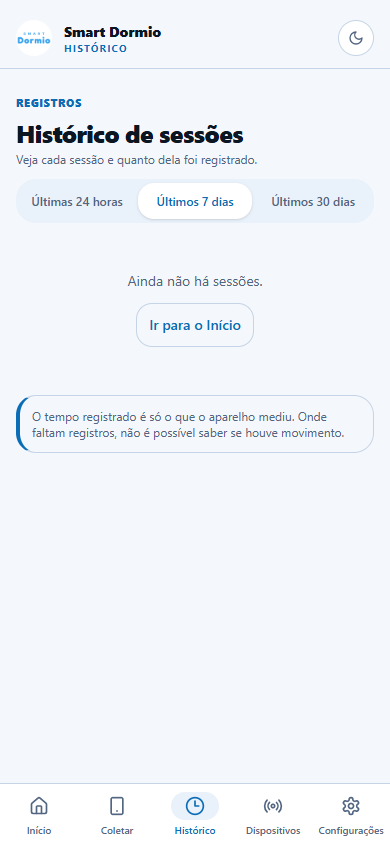
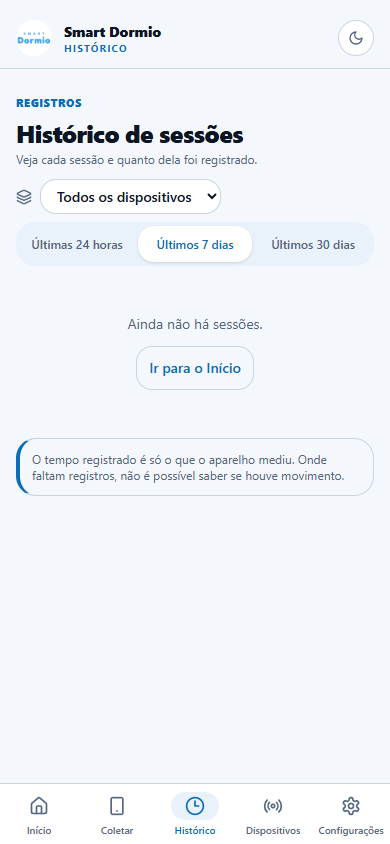
test: validar o onboarding com o filtro do historico (UI-57)

diff --git a/frontend/src/pages/Historico.test.tsx b/frontend/src/pages/Historico.test.tsx
@@ -18,7 +18,9 @@ import { Historico } from "./Historico";
 import { useDispositivos } from "../hooks/useDispositivos";
 import type { Dispositivo } from "../lib/dispositivos";
 
-vi.mock("../hooks/useDispositivos", () => ({ useDispositivos: vi.fn(() => []) }));
+vi.mock("../hooks/useDispositivos", () => ({
+  useDispositivos: vi.fn(() => ({ dispositivos: [], estado: "pronto" })),
+}));
 
 vi.mock("../lib/api", async (original) => ({
   ...await original<typeof import("../lib/api")>(),
@@ -511,11 +513,11 @@ describe("o aparelho de cada sessão (UI-55)", () => {
 
   beforeEach(() => {
     window.localStorage.clear();
-    vi.mocked(useDispositivos).mockReturnValue(aparelhos);
+    vi.mocked(useDispositivos).mockReturnValue({ dispositivos: aparelhos, estado: "pronto" });
     buscar.mockResolvedValue({ leituras: [...NOITE, ...sessao("celular", 300, 12)], truncada: false });
   });
 
-  afterEach(() => vi.mocked(useDispositivos).mockReturnValue([]));
+  afterEach(() => vi.mocked(useDispositivos).mockReturnValue({ dispositivos: [], estado: "pronto" }));
 
   it("com dois aparelhos, cada linha diz de qual veio", async () => {
     mostrar();
@@ -547,7 +549,7 @@ describe("o aparelho de cada sessão (UI-55)", () => {
   });
 
   it("com um aparelho só, não há seletor nem nome", async () => {
-    vi.mocked(useDispositivos).mockReturnValue([aparelhos[0]]);
+    vi.mocked(useDispositivos).mockReturnValue({ dispositivos: [aparelhos[0]], estado: "pronto" });
     buscar.mockResolvedValue({ leituras: NOITE, truncada: false });
     mostrar();
     const tabela = await screen.findByRole("region", { name: "Tabela do histórico" });
@@ -568,11 +570,11 @@ describe("o mesmo período com dois aparelhos (UI-56)", () => {
 
   beforeEach(() => {
     window.localStorage.clear();
-    vi.mocked(useDispositivos).mockReturnValue(aparelhos);
+    vi.mocked(useDispositivos).mockReturnValue({ dispositivos: aparelhos, estado: "pronto" });
     buscar.mockResolvedValue({ leituras: [...NOITE, ...CELULAR], truncada: false });
   });
 
-  afterEach(() => vi.mocked(useDispositivos).mockReturnValue([]));
+  afterEach(() => vi.mocked(useDispositivos).mockReturnValue({ dispositivos: [], estado: "pronto" }));
 
   it("no computador, uma data com 2 aparelhos e uma linha por aparelho, o travesseiro primeiro", async () => {
     mostrar();

diff --git a/CLAUDE.md b/CLAUDE.md
@@ -243,7 +243,7 @@ custo para rodar:
 | Onde | Como rodar | Resultado em 28/10 |
 |---|---|---|
 | Backend (Flask) | `cd web-app && pytest --ignore=tests/rls` | **751 passam, 1 pula** ✏ *(25/11, `APP-22`, base `395f84c`, Windows 11, Python 3.13.5; 13 testes novos)*; antes **730 passam, 1 pula** ✏ *(23/11, `APP-19`: +15 do `test_versao_do_app.py`; Windows 11, Python 3.13)*; antes **715 passam, 1 pula** ✏ *(23/11, `CAL-03` etapa 3: +15 do `test_analisar_cal03.py` e +5 do `test_features_noite.py`; 15 de 15 sabotagens pegas; Windows 11, Python 3.13)*; antes **695 passam, 1 pula** ✏ *(23/11, `VIA-02`: +16 do `test_analisar_via02.py`; 8 de 8 sabotagens pegas; Windows 11, Python 3.13)*; antes **679 passam, 1 pula** ✏ *(22/11, `DATA-17`, código `a6fc480`, sobre `develop` `2b8fbd5`, Windows 11, Python 3.13)*; antes **665 passam, 1 pula** ✏ *(21/11, `DATA-16`: +31 do `test_trecho.py`, excluir e marcar uma sessão; Windows, Python 3.13)*; antes **634 passam, 1 pula** ✏ *(17/11, `UI-14`: +41 do `test_lista_de_espera.py` e +3 do `test_politica_cobre_as_colunas.py`, a lista de espera; Windows, Python 3.13 sem `CI=true`)*; antes **590 passam, 1 pula** ✏ *(16/11, `VIA-01`: +16 do `test_analisar_via01.py`, a análise da bancada com dados sintéticos; Windows, Python 3.13 sem `CI=true`)*; antes **575 passam** ✏ *(15/11, `CI-02`: +2 do verificador de documentos, contêiner Python 3.12 com `CI=true`)*; antes **572 passam, 1 pula** ✏ *(15/11, `UI-32`: extração e orçamento da landing, incluindo referências SVG na revisão da PR #194; Windows, Python 3.13)*; antes **569 passam, 1 pula** ✏ *(15/11, revisão do `UI-15`: seis casos do orçamento de bundle; Windows, Python 3.13 sem `CI=true`)*; antes **551 passam** ✏ *(13/11, `CI-10`: +2 do `test_versao_do_python.py`; em contêiner `python:3.12` com `CI=true` — fora do CI, um deles pula)*; antes **549 passam** ✏ *(12/11, DATA-15 e API-08, Windows, sem RLS)*; antes **544 passam** ✏ *(11/11, `CAL-03` etapa 1: +18 do `test_calibracao_na_ingestao.py` — `gn` e `cal` do contrato 2.9.0)*; antes **526 passam** ✏ *(11/11, `INFRA-05`: +1 do `test_regiao_do_backend.py` — as funções na região do banco)*; antes **525 passam** ✏ *(10/11, `LGPD-12`: +16 do `test_consentimento.py` — a rota do consentimento, as travas 403 e as três versões iguais)*; antes **509 passam** ✏ *(10/11, `LGPD-11`: +5 do `test_politica_cobre_as_colunas.py` — toda coluna gravada tem de estar na §2.2 da política)*; antes **504 passam** ✏ *(10/11, `APP-10`: +4 do `test_lote.py` — um cliente por requisição no caminho por sessão; Windows, Python 3.13)*; antes **500 passam** ✏ *(09/11, `APP-02` etapa 3: +7 do `test_noite_do_app.py`, uma noite do emulador da ingestão ao modelo)*; antes **493 passam** ✏ *(08/11, `ML-INF`: +40 do `test_inferencia.py`; Windows, Python 3.13)*; antes **453 passam** ✏ *(05/11, `API-05`: +36 do `test_comparacao_de_datas.py`; 03/11, `LGPD-05`: +1; 01/11, `API-04`: +9; 01/11, `AUTH-08`: +17; 31/10, `SEC-14`: +6)*; antes **384 passam** ✏ *(30/10, branch do `DATA-07b`; eram 316 no `API-03` e 293 em 28/10)* |
-| Frontend | `cd frontend && npx vitest run` | **1 155 passam, 77 arquivos** ✏ *(26/11, UI-56, sobre o UI-55, +13 testes e 3 de 3 sabotagens; Windows, Node 24.11.0)*; antes **1 142 passam, 76 arquivos** ✏ *(26/11, UI-55, +4 testes e 1 de 1 sabotagem; Windows, Node 24.11.0)*; antes **1 138 passam, 76 arquivos** ✏ *(26/11, UI-54, sobre o UI-53, +11 testes e 1 de 1 sabotagem; Windows, Node 24.11.0)*; antes **1 127 passam, 75 arquivos** ✏ *(26/11, UI-53, sobre o UI-52, +9 testes e 3 de 3 sabotagens; Windows, Node 24.11.0)*; antes **1 118 passam, 74 arquivos** ✏ *(26/11, UI-52, base `9efde23`, +15 testes e 3 de 3 sabotagens; Windows, Node 24.11.0)*; antes **1 103 passam, 73 arquivos** ✏ *(26/11, UI-51, base `14b49f4`, +4 testes e 2 de 2 sabotagens; Windows, Node 24.11.0)*; antes **1 091 passam, 73 arquivos** ✏ *(26/11, UI-49, base `2183149`, +2 testes e 3 de 3 sabotagens; Windows, Node 24.11.0)*; antes **1 089 passam, 73 arquivos** ✏ *(26/11, UI-48, base `9e62720`, +3 testes e 3 de 3 sabotagens; Windows, Node 24.11.0)*; antes **1 086 passam, 73 arquivos** ✏ *(26/11, UI-47, base `e33be52`, +14 testes e 4 de 4 sabotagens; Windows, Node 24.11.0, 2 workers)*; antes **1 072 passam, 71 arquivos** ✏ *(26/11, UI-46, base `8bcc652`, +11 testes e 3 de 3 sabotagens; Windows, Node 24.11.0, 2 workers)*; antes **1061 passam, 70 arquivos** ✏ *(26/11, revisão da PR #295, UI-45, base `12992da`, +12 testes (11 do Codex e 1 da revisão do texto de um dia) e 5 de 5 sabotagens; Windows, Node 24.11.0, 2 workers)*; antes **1044 passam, 69 arquivos** ✏ *(25/11, `APP-22`, base `395f84c`, Windows 11, Node 24.11.0)*; antes **1035 passam, 67 arquivos** ✏ *(25/11, revisão do cartão do UI-43: +8 testes sobre develop 07cdb15; Windows, Node 24.11.0)*; antes **1027 passam, 67 arquivos** ✏ *(25/11, integração das PRs #284 e #283 sobre develop ec181af: o cartão Seu dispositivo (+4) e a barra lateral (+9) em montagem.test.ts; Windows, Node 24.11.0)*; antes **1018 passam, 67 arquivos** ✏ *(25/11, UI-43 cartão Seu dispositivo: +4 em montagem.test.ts sobre develop 518ed8a; Windows, Node 24.11.0)*; antes **1023 passam, 67 arquivos** ✏ *(24/11, UI-43 barra lateral: +9 em montagem.test.ts, sobre develop 518ed8a; Windows, Node 24.11.0)*; antes **1014 passam, 67 arquivos** ✏ *(24/11, revisão da PR #279: +1 em montagem.test.ts para a frase exata de exclusão, sobre develop d81f4f9; Windows, Node 24.11.0)*; antes **1013 passam, 67 arquivos** ✏ *(24/11, UI-43 etapa 6: +8 em montagem.test.ts sobre develop d81f4f9; Windows, Node 24.11.0)*; antes **1005 passam, 67 arquivos** ✏ *(24/11, UI-43 etapa 5: +7 em montagem.test.ts sobre develop 3709f34; Windows, Node 24.11.0)*; antes **998 passam, 67 arquivos** ✏ *(24/11, UI-43 etapa 4: +3 em Historico.test.tsx, sobre develop eaddd6b; Windows, Node 24.11.0)*; antes **995 passam, 67 arquivos** ✏ *(24/11, revisão da PR #276 sobre develop 5284345: +1 no alerta de ritmo da Noite; a conferência do pacote de produção também ganhou um controle, fora da contagem Vitest; Windows, Node 24.11.0)*; antes **994 passam, 67 arquivos** ✏ *(24/11, UI-43 etapa 3: +13 em Noite.test.tsx, sobre develop 5284345; os 13 falharam nas sabotagens correspondentes; Windows, Node 24.11.0)*; antes **981 passam, 66 arquivos** ✏ *(24/11, revisão do `UI-43` etapa 2, PR #275: +3 do `montagem.test.ts` e +2 do `metricas.test.ts`; 5 de 5 novas sabotagens; Windows, Node 24.11.0, sobre `develop` `7eadfb5`)*; antes **976 passam, 66 arquivos** ✏ *(23/11, `UI-43` etapa 2: +1 no `ResumoDaSessao.test.tsx` e +1 no `montagem.test.ts`; 2 de 2 sabotagens pegas; Windows, Node 24.11.0, sobre `develop` `7eadfb5`)*; antes **974 passam, 66 arquivos** ✏ *(23/11, `UI-43` etapa 1, a base visual: +7 do `CabecalhoDoApp.test.tsx` e +2 do `padraoVisual.test.ts`; 10 de 10 sabotagens; Windows, Node 22)*; antes **965 passam, 65 arquivos** ✏ *(23/11, `UI-43` etapa 1, o gráfico próprio: +13 do `GraficoDeMovimento.test.tsx`; 12 de 12 sabotagens; Windows, Node 22)*; antes **952 passam, 64 arquivos** ✏ *(23/11, `APP-20`: +8 do `LembreteDeDormir.test.tsx`, sobre o `develop` com o `APP-19` e o `UI-42`; Windows, Node 22)*; antes **944 passam, 63 arquivos** ✏ *(23/11, `UI-42`: o pareamento só do travesseiro, +1 no `montagem.test.ts`; 5 de 5 sabotagens; Windows, Node 22)*; antes **943 passam, 63 arquivos** ✏ *(23/11, `APP-19`: +18 do `atualizacaoDoApp.test.ts`, do `AvisoDeAtualizacao.test.tsx` e do `useEnvioDoCelular.test.ts`; Windows, Node 22)*; antes **925 passam, 60 arquivos** ✏ *(23/11, `UI-41` (a), (c) e (d), PR #259, medido sobre `9d0b58c` sincronizado com `develop` `f8344df`; 14 de 15 sabotagens pegas; Windows, Node 22)*; antes **871 passam, 59 arquivos** ✏ *(22/11, integração das PRs #256 e #257, medido sobre o merge, Windows, Node 22)*; antes **868 passam, 59 arquivos** ✏ *(22/11, `DATA-17`, código `a6fc480`, sobre `develop` `2b8fbd5`, Windows 11, Node 22)*; antes **866 passam, 59 arquivos** ✏ *(22/11, `UI-41` (b): +2 do `appAndroid.test.ts`, o nome na notificação e o canal atualizado; os dois caem contra o código de antes; Windows, Node 22)*; antes **864 passam, 59 arquivos** ✏ *(22/11, `UI-40`: +21, o resumo, as camadas e o aviso de falha nunca recolhido; 15 de 15 sabotagens pegas; Windows, Node 22)*; antes **843 passam, 58 arquivos** ✏ *(22/11, `UI-39`: +12, o `linguagem.test.ts`, que reprova jargão nas telas depois do login, e os rótulos que mudam de sentido; contra o código de antes, 30 caem)*; antes **831 passam, 57 arquivos** ✏ *(22/11, `UI-38`: +27, a pausa curta no agrupamento e o alcance de excluir e marcar; contra o código só com a tolerância, 20 dos 21 do alcance caem; Windows, Node 22)*; antes **804 passam, 57 arquivos** ✏ *(22/11, `LGPD-15`: +1, o texto do consentimento no teste de "o Dormio" do `appAndroid.test.ts`; Windows, Node 22)*; antes **803 passam, 57 arquivos** ✏ *(21/11, `DATA-16`: +7 do `Historico.test.tsx`, +5 do `trecho.test.ts`, +4 do `api.test.ts` e +1 do `exportar.test.ts`; Windows, Node 22)*; antes **786 passam, 55 arquivos** ✏ *(21/11, `UI-35`: +32 do `padraoVisual.test.ts`, o bloco dos textos mínimos da home; Windows, Node 22)*; antes **754 passam, 55 arquivos** ✏ *(21/11, `APP-18`: +14 do `appAndroid.test.ts`, os textos do app, os 11 `splash.png` e o fundo da abertura; Windows, Node 22)*; antes **740 passam, 55 arquivos** ✏ *(19/11, `APP-17`: +11 do `appAndroid.test.ts` e +1 do `LandingLeve.test.tsx`, o APK 1.1.0 e o download na landing; Windows, Node 22)*; antes **728 passam, 53 arquivos** ✏ *(19/11, `BRAND-05`: +3 da grafia do nome no `padraoVisual.test.ts`; o `UI-37` tinha levado a 725; Windows, Node 22)*; antes **717 passam, 52 arquivos** ✏ *(19/11, ícones: +2 do manifest no `padraoVisual.test.ts`; Windows, Node 22)*; antes **715 passam, 52 arquivos** ✏ *(19/11, favicon: +3 do `padraoVisual.test.ts`; Windows, Node 22)*; antes **712 passam, 52 arquivos** ✏ *(19/11, ajuste do `UI-14`: +2 do título e do cartão retirado; Windows, Node 22)*; antes **710 passam, 52 arquivos** ✏ *(19/11, `UI-34`: +10 do `padraoVisual.test.ts`, o padrão visual das páginas públicas; Windows, Node 22)*; antes **700 passam, 51 arquivos** ✏ *(17/11, `UI-14`: +21 do `ListaDeEspera.test.tsx` e +27 do `listaDeEspera.test.ts`; a linha anterior dizia 651, e a 49ª diferença não foi atribuída a teste nenhum desta branch — não investigada; Windows, Node 22)*; antes **651 passam, 49 arquivos** ✏ *(16/11, `UI-33`: +5 dos refs do `useColeta`, do primeiro quadro sem configuração e do erro da `ListaDeNoites`; Windows, Node 22)*; antes **646 passam, 47 arquivos** ✏ *(16/11, revisão do `APP-16`: +5 do prazo do lote e da fila; Windows, Node 22)*; antes **641 passam, 47 arquivos** ✏ *(16/11, `APP-16`: +3 testes de remontagem e releitura da fila)*; antes **638 passam, 47 arquivos** ✏ *(16/11, revisão do `AUTH-10`: +4 casos de renovação, reentrada, troca e saída de conta)*; antes **634 passam, 47 arquivos** ✏ *(15/11, `AUTH-10`: +5 casos de sessão e perfil no Windows com Node 22)*; antes **629 passam, 47 arquivos** ✏ *(15/11, `UI-15`, Windows)*; antes **625 passam, 45 arquivos** ✏ *(14/11, `UI-25`, Windows)*; antes **617 passam, 45 arquivos** ✏ *(13/11, `API-07`, Windows)*; antes **615 passam, 45 arquivos** ✏ *(13/11, `UI-31`, Windows)*; antes **612 passam, 45 arquivos** ✏ *(13/11, `APP-11`, Windows)*; antes **574 passam, 44 arquivos** ✏ *(12/11, DATA-15 e API-08, Windows)*; antes **572 passam, 44 arquivos** ✏ *(12/11, frontend do protótipo, PRs #134–#139 do Codex: painel, coleta, dispositivos, histórico, configurações; reexecutado pelo Claude na ponta `57b683f`)*; antes **563 passam, 43 arquivos** ✏ *(11/11, `CAL-03` etapa 2: +2 da linha de calibração no cartão)*; antes **561 passam, 43 arquivos** ✏ *(10/11, `LGPD-12`: +10 do `TelaDeConsentimento.test.tsx` — a tela e o portão antes da noite)*; antes **551 passam, 42 arquivos** ✏ *(10/11, `APP-10`: +5 do laço de envio e do cartão; a contagem de arquivos dizia 43 desde 09/11, e a medida é 42 — `git ls-files` também)*; antes **546 passam** ✏ *(09/11, `APP-02` etapa 4, percurso pelos botões: +4 dos três achados)*; antes **542 passam, 43 arquivos** ✏ *(09/11, `APP-02` etapa 4: +14 da tela da noite — `ListaDeNoites`, a navegação, o resumo e a posição no cartão)*; antes **528 passam, 40 arquivos** ✏ *(09/11, `APP-02` etapa 3: +19 do envio — `envioDaNoite.test.ts`, `enviarLote` e o cartão)*; antes **509 passam, 39 arquivos** ✏ *(09/11, `APP-02` etapa 2: +15 do `noiteNativa.test.ts` e do `CartaoDaNoite.test.tsx`)*; antes **494 passam, 37 arquivos** ✏ *(08/11, `APP-02`: +5 do endereço do backend no app, em `api.test.ts` e `coleta.test.ts`)*; antes **489 passam, 37 arquivos** ✏ *(05/11, `UI-24`: +11 do `useHistorico.test.ts`; 04/11, `DEMO-03`: +3 do `useDispositivos.test.ts`; 04/11, `DEMO-02` e `UI-23`: +4 do `Guardas.test.tsx` e +5 do `Landing.test.tsx`; 03/11, `UI-22`: o `raw.test.ts` passou a 4 testes, e sobe o servidor de desenvolvimento; 03/11, `UI-21`: +2 do `raw.test.ts`; 03/11, `SEC-17`: com **vitest 4.1.12** e vite 6.4.5 — mesma contagem; o `vitest.config.ts` libera `docs/` para o `?raw` da política; 03/11, `SEC-16`: +19, com o `Login.test.tsx`; 03/11, `LGPD-01` (b): +15, com `politica.test.ts` e `Privacidade.test.tsx`; 03/11, `LGPD-05`: +4, com o `Register.test.tsx`; 01/11, `AUTH-08`: +2; 31/10, `AUTH-07`: +4 do `AuthContext.test.tsx`)* |
+| Frontend | `cd frontend && npx vitest run` | **1 171 passam, 77 arquivos** ✏ *(26/11, integração da PR #322, base `cb12145`, +16 testes e 6 de 6 sabotagens, Windows 11, Node 24.11.0)*; antes **1 155 passam, 77 arquivos** ✏ *(26/11, UI-56, sobre o UI-55, +13 testes e 3 de 3 sabotagens; Windows, Node 24.11.0)*; antes **1 142 passam, 76 arquivos** ✏ *(26/11, UI-55, +4 testes e 1 de 1 sabotagem; Windows, Node 24.11.0)*; antes **1 138 passam, 76 arquivos** ✏ *(26/11, UI-54, sobre o UI-53, +11 testes e 1 de 1 sabotagem; Windows, Node 24.11.0)*; antes **1 127 passam, 75 arquivos** ✏ *(26/11, UI-53, sobre o UI-52, +9 testes e 3 de 3 sabotagens; Windows, Node 24.11.0)*; antes **1 118 passam, 74 arquivos** ✏ *(26/11, UI-52, base `9efde23`, +15 testes e 3 de 3 sabotagens; Windows, Node 24.11.0)*; antes **1 103 passam, 73 arquivos** ✏ *(26/11, UI-51, base `14b49f4`, +4 testes e 2 de 2 sabotagens; Windows, Node 24.11.0)*; antes **1 091 passam, 73 arquivos** ✏ *(26/11, UI-49, base `2183149`, +2 testes e 3 de 3 sabotagens; Windows, Node 24.11.0)*; antes **1 089 passam, 73 arquivos** ✏ *(26/11, UI-48, base `9e62720`, +3 testes e 3 de 3 sabotagens; Windows, Node 24.11.0)*; antes **1 086 passam, 73 arquivos** ✏ *(26/11, UI-47, base `e33be52`, +14 testes e 4 de 4 sabotagens; Windows, Node 24.11.0, 2 workers)*; antes **1 072 passam, 71 arquivos** ✏ *(26/11, UI-46, base `8bcc652`, +11 testes e 3 de 3 sabotagens; Windows, Node 24.11.0, 2 workers)*; antes **1061 passam, 70 arquivos** ✏ *(26/11, revisão da PR #295, UI-45, base `12992da`, +12 testes (11 do Codex e 1 da revisão do texto de um dia) e 5 de 5 sabotagens; Windows, Node 24.11.0, 2 workers)*; antes **1044 passam, 69 arquivos** ✏ *(25/11, `APP-22`, base `395f84c`, Windows 11, Node 24.11.0)*; antes **1035 passam, 67 arquivos** ✏ *(25/11, revisão do cartão do UI-43: +8 testes sobre develop 07cdb15; Windows, Node 24.11.0)*; antes **1027 passam, 67 arquivos** ✏ *(25/11, integração das PRs #284 e #283 sobre develop ec181af: o cartão Seu dispositivo (+4) e a barra lateral (+9) em montagem.test.ts; Windows, Node 24.11.0)*; antes **1018 passam, 67 arquivos** ✏ *(25/11, UI-43 cartão Seu dispositivo: +4 em montagem.test.ts sobre develop 518ed8a; Windows, Node 24.11.0)*; antes **1023 passam, 67 arquivos** ✏ *(24/11, UI-43 barra lateral: +9 em montagem.test.ts, sobre develop 518ed8a; Windows, Node 24.11.0)*; antes **1014 passam, 67 arquivos** ✏ *(24/11, revisão da PR #279: +1 em montagem.test.ts para a frase exata de exclusão, sobre develop d81f4f9; Windows, Node 24.11.0)*; antes **1013 passam, 67 arquivos** ✏ *(24/11, UI-43 etapa 6: +8 em montagem.test.ts sobre develop d81f4f9; Windows, Node 24.11.0)*; antes **1005 passam, 67 arquivos** ✏ *(24/11, UI-43 etapa 5: +7 em montagem.test.ts sobre develop 3709f34; Windows, Node 24.11.0)*; antes **998 passam, 67 arquivos** ✏ *(24/11, UI-43 etapa 4: +3 em Historico.test.tsx, sobre develop eaddd6b; Windows, Node 24.11.0)*; antes **995 passam, 67 arquivos** ✏ *(24/11, revisão da PR #276 sobre develop 5284345: +1 no alerta de ritmo da Noite; a conferência do pacote de produção também ganhou um controle, fora da contagem Vitest; Windows, Node 24.11.0)*; antes **994 passam, 67 arquivos** ✏ *(24/11, UI-43 etapa 3: +13 em Noite.test.tsx, sobre develop 5284345; os 13 falharam nas sabotagens correspondentes; Windows, Node 24.11.0)*; antes **981 passam, 66 arquivos** ✏ *(24/11, revisão do `UI-43` etapa 2, PR #275: +3 do `montagem.test.ts` e +2 do `metricas.test.ts`; 5 de 5 novas sabotagens; Windows, Node 24.11.0, sobre `develop` `7eadfb5`)*; antes **976 passam, 66 arquivos** ✏ *(23/11, `UI-43` etapa 2: +1 no `ResumoDaSessao.test.tsx` e +1 no `montagem.test.ts`; 2 de 2 sabotagens pegas; Windows, Node 24.11.0, sobre `develop` `7eadfb5`)*; antes **974 passam, 66 arquivos** ✏ *(23/11, `UI-43` etapa 1, a base visual: +7 do `CabecalhoDoApp.test.tsx` e +2 do `padraoVisual.test.ts`; 10 de 10 sabotagens; Windows, Node 22)*; antes **965 passam, 65 arquivos** ✏ *(23/11, `UI-43` etapa 1, o gráfico próprio: +13 do `GraficoDeMovimento.test.tsx`; 12 de 12 sabotagens; Windows, Node 22)*; antes **952 passam, 64 arquivos** ✏ *(23/11, `APP-20`: +8 do `LembreteDeDormir.test.tsx`, sobre o `develop` com o `APP-19` e o `UI-42`; Windows, Node 22)*; antes **944 passam, 63 arquivos** ✏ *(23/11, `UI-42`: o pareamento só do travesseiro, +1 no `montagem.test.ts`; 5 de 5 sabotagens; Windows, Node 22)*; antes **943 passam, 63 arquivos** ✏ *(23/11, `APP-19`: +18 do `atualizacaoDoApp.test.ts`, do `AvisoDeAtualizacao.test.tsx` e do `useEnvioDoCelular.test.ts`; Windows, Node 22)*; antes **925 passam, 60 arquivos** ✏ *(23/11, `UI-41` (a), (c) e (d), PR #259, medido sobre `9d0b58c` sincronizado com `develop` `f8344df`; 14 de 15 sabotagens pegas; Windows, Node 22)*; antes **871 passam, 59 arquivos** ✏ *(22/11, integração das PRs #256 e #257, medido sobre o merge, Windows, Node 22)*; antes **868 passam, 59 arquivos** ✏ *(22/11, `DATA-17`, código `a6fc480`, sobre `develop` `2b8fbd5`, Windows 11, Node 22)*; antes **866 passam, 59 arquivos** ✏ *(22/11, `UI-41` (b): +2 do `appAndroid.test.ts`, o nome na notificação e o canal atualizado; os dois caem contra o código de antes; Windows, Node 22)*; antes **864 passam, 59 arquivos** ✏ *(22/11, `UI-40`: +21, o resumo, as camadas e o aviso de falha nunca recolhido; 15 de 15 sabotagens pegas; Windows, Node 22)*; antes **843 passam, 58 arquivos** ✏ *(22/11, `UI-39`: +12, o `linguagem.test.ts`, que reprova jargão nas telas depois do login, e os rótulos que mudam de sentido; contra o código de antes, 30 caem)*; antes **831 passam, 57 arquivos** ✏ *(22/11, `UI-38`: +27, a pausa curta no agrupamento e o alcance de excluir e marcar; contra o código só com a tolerância, 20 dos 21 do alcance caem; Windows, Node 22)*; antes **804 passam, 57 arquivos** ✏ *(22/11, `LGPD-15`: +1, o texto do consentimento no teste de "o Dormio" do `appAndroid.test.ts`; Windows, Node 22)*; antes **803 passam, 57 arquivos** ✏ *(21/11, `DATA-16`: +7 do `Historico.test.tsx`, +5 do `trecho.test.ts`, +4 do `api.test.ts` e +1 do `exportar.test.ts`; Windows, Node 22)*; antes **786 passam, 55 arquivos** ✏ *(21/11, `UI-35`: +32 do `padraoVisual.test.ts`, o bloco dos textos mínimos da home; Windows, Node 22)*; antes **754 passam, 55 arquivos** ✏ *(21/11, `APP-18`: +14 do `appAndroid.test.ts`, os textos do app, os 11 `splash.png` e o fundo da abertura; Windows, Node 22)*; antes **740 passam, 55 arquivos** ✏ *(19/11, `APP-17`: +11 do `appAndroid.test.ts` e +1 do `LandingLeve.test.tsx`, o APK 1.1.0 e o download na landing; Windows, Node 22)*; antes **728 passam, 53 arquivos** ✏ *(19/11, `BRAND-05`: +3 da grafia do nome no `padraoVisual.test.ts`; o `UI-37` tinha levado a 725; Windows, Node 22)*; antes **717 passam, 52 arquivos** ✏ *(19/11, ícones: +2 do manifest no `padraoVisual.test.ts`; Windows, Node 22)*; antes **715 passam, 52 arquivos** ✏ *(19/11, favicon: +3 do `padraoVisual.test.ts`; Windows, Node 22)*; antes **712 passam, 52 arquivos** ✏ *(19/11, ajuste do `UI-14`: +2 do título e do cartão retirado; Windows, Node 22)*; antes **710 passam, 52 arquivos** ✏ *(19/11, `UI-34`: +10 do `padraoVisual.test.ts`, o padrão visual das páginas públicas; Windows, Node 22)*; antes **700 passam, 51 arquivos** ✏ *(17/11, `UI-14`: +21 do `ListaDeEspera.test.tsx` e +27 do `listaDeEspera.test.ts`; a linha anterior dizia 651, e a 49ª diferença não foi atribuída a teste nenhum desta branch — não investigada; Windows, Node 22)*; antes **651 passam, 49 arquivos** ✏ *(16/11, `UI-33`: +5 dos refs do `useColeta`, do primeiro quadro sem configuração e do erro da `ListaDeNoites`; Windows, Node 22)*; antes **646 passam, 47 arquivos** ✏ *(16/11, revisão do `APP-16`: +5 do prazo do lote e da fila; Windows, Node 22)*; antes **641 passam, 47 arquivos** ✏ *(16/11, `APP-16`: +3 testes de remontagem e releitura da fila)*; antes **638 passam, 47 arquivos** ✏ *(16/11, revisão do `AUTH-10`: +4 casos de renovação, reentrada, troca e saída de conta)*; antes **634 passam, 47 arquivos** ✏ *(15/11, `AUTH-10`: +5 casos de sessão e perfil no Windows com Node 22)*; antes **629 passam, 47 arquivos** ✏ *(15/11, `UI-15`, Windows)*; antes **625 passam, 45 arquivos** ✏ *(14/11, `UI-25`, Windows)*; antes **617 passam, 45 arquivos** ✏ *(13/11, `API-07`, Windows)*; antes **615 passam, 45 arquivos** ✏ *(13/11, `UI-31`, Windows)*; antes **612 passam, 45 arquivos** ✏ *(13/11, `APP-11`, Windows)*; antes **574 passam, 44 arquivos** ✏ *(12/11, DATA-15 e API-08, Windows)*; antes **572 passam, 44 arquivos** ✏ *(12/11, frontend do protótipo, PRs #134–#139 do Codex: painel, coleta, dispositivos, histórico, configurações; reexecutado pelo Claude na ponta `57b683f`)*; antes **563 passam, 43 arquivos** ✏ *(11/11, `CAL-03` etapa 2: +2 da linha de calibração no cartão)*; antes **561 passam, 43 arquivos** ✏ *(10/11, `LGPD-12`: +10 do `TelaDeConsentimento.test.tsx` — a tela e o portão antes da noite)*; antes **551 passam, 42 arquivos** ✏ *(10/11, `APP-10`: +5 do laço de envio e do cartão; a contagem de arquivos dizia 43 desde 09/11, e a medida é 42 — `git ls-files` também)*; antes **546 passam** ✏ *(09/11, `APP-02` etapa 4, percurso pelos botões: +4 dos três achados)*; antes **542 passam, 43 arquivos** ✏ *(09/11, `APP-02` etapa 4: +14 da tela da noite — `ListaDeNoites`, a navegação, o resumo e a posição no cartão)*; antes **528 passam, 40 arquivos** ✏ *(09/11, `APP-02` etapa 3: +19 do envio — `envioDaNoite.test.ts`, `enviarLote` e o cartão)*; antes **509 passam, 39 arquivos** ✏ *(09/11, `APP-02` etapa 2: +15 do `noiteNativa.test.ts` e do `CartaoDaNoite.test.tsx`)*; antes **494 passam, 37 arquivos** ✏ *(08/11, `APP-02`: +5 do endereço do backend no app, em `api.test.ts` e `coleta.test.ts`)*; antes **489 passam, 37 arquivos** ✏ *(05/11, `UI-24`: +11 do `useHistorico.test.ts`; 04/11, `DEMO-03`: +3 do `useDispositivos.test.ts`; 04/11, `DEMO-02` e `UI-23`: +4 do `Guardas.test.tsx` e +5 do `Landing.test.tsx`; 03/11, `UI-22`: o `raw.test.ts` passou a 4 testes, e sobe o servidor de desenvolvimento; 03/11, `UI-21`: +2 do `raw.test.ts`; 03/11, `SEC-17`: com **vitest 4.1.12** e vite 6.4.5 — mesma contagem; o `vitest.config.ts` libera `docs/` para o `?raw` da política; 03/11, `SEC-16`: +19, com o `Login.test.tsx`; 03/11, `LGPD-01` (b): +15, com `politica.test.ts` e `Privacidade.test.tsx`; 03/11, `LGPD-05`: +4, com o `Register.test.tsx`; 01/11, `AUTH-08`: +2; 31/10, `AUTH-07`: +4 do `AuthContext.test.tsx`)* |
 | Tipos e build | `cd frontend && npm run build` (`tsc --noEmit && vite build`) | `tsc` limpo; `vite build` ok (avisa do chunk único — `UI-15`) |
 | Lint, arquivos e exports (`CI-02`) | `ruff check web-app scripts ml firmware` · no frontend: `npm run lint`, `npm run knip`, `npm run knip:tipos` | Ruff e Knip sem erros. O escopo do Ruff inclui `firmware/` para futuros scripts. Hoje a pasta tem zero arquivos Python versionados e nenhuma checagem Python ali. Knip bloqueia arquivos, exports de valor e tipos sem uso. ✏ *16/11, `UI-33`: 0 avisos de hooks e 0 tipos sem consumidor; `react-hooks/refs`, `react-hooks/set-state-in-effect` e `knip:tipos` reprovam o CI (3 de 3 controles positivos). Os 6 `eslint-disable` levam o motivo na linha.* O site e `build:app` partem de `src/main.tsx`, e Knip inclui `capacitor.config.ts`, os configs Vite/Vitest e os testes. |
 | RLS (Postgres real) | `DORMIO_RLS_DATABASE_URL=... pytest tests/rls` | **351 passam** ✏ *(23/11, `APP-19`: +14 do `test_rls_versao_do_app.py`, a 026; Postgres 17 em Docker)*; antes **337 passam** ✏ *(22/11, `DATA-17`, código `a6fc480`, sobre `develop` `2b8fbd5`, Postgres 17 em Docker no Windows 11)*; antes **323 passam** ✏ *(22/11, `LGPD-15`: +2 do `test_rls_consentimento.py`, a 024; sem ela, os 2 caem)*; antes **321 passam** ✏ *(21/11, `DATA-16`: +16 do `test_rls_trecho.py`, a 023; Postgres 17 em Docker; sem a 023, os 16 caem)*; antes **305 passam** ✏ *(17/11, `UI-14`: +32 do `test_rls_lista_de_espera.py`, a 022; Postgres 17 em Docker; contra o `develop` sem a 022, os 32 caem)*; antes **273 passam** ✏ *(15/11, `CI-02`: suíte conferida em Postgres 17 e Python 3.12 em contêiner)*; antes **270 passam** ✏ *(13/11, `SEC-13`: +1, o `pos_migracao.sql` sem GRANT; Postgres 17 em Docker)*; antes **269 passam** ✏ *(11/11, `CAL-03` etapa 1: +10 do `test_rls_calibracao.py`, a 018; Postgres 17 em Docker)*; antes **259 passam** ✏ *(10/11, `LGPD-12`: +12 do `test_rls_consentimento.py`, a 017; Postgres 17 em Docker)*; antes **247 passam** ✏ *(10/11, `LGPD-09`: +3 da 013 corrigida — a sessão conta como uso, inclusive a `refreshed_at`, que é o que a renovação grava)*; antes **244 passam** ✏ *(10/11, `SEC-18`: +48 do `test_rls_validacao_no_banco.py`, a 016; Postgres 17 em Docker)*; antes **196 passam** ✏ *(09/11, `DATA-12`: +3 do `test_rls_cascata.py`; o `esquema_base.sql` cria `sleep_data` como a produção — `user_id` do painel, sem cascata —, e sem a 015 os 3 caem; passa também no Postgres 17, local)*; antes **193 passam** ✏ *(09/11, `DATA-10`: o `esquema_base.sql` passou a criar `sleep_data.id` como uuid, como na produção; sem a 014, 17 caem com o erro da produção)*; antes **193 passam** ✏ *(05/11, `LGPD-02`: +19 do `test_rls_retencao.py`, contra `postgres:16` em Docker; 03/11, `LGPD-05`/`LGPD-06`: +10 da 012 e da consulta agregada; 01/11, `DATA-08`: +6 da 011)*; antes **158 passam** contra `postgres:16` em Docker ✏ *(30/10, `DATA-07b`: +7 da migração 010; eram 151 em 28/10)*, com a base imitando os privilégios padrão do Supabase (`SEC-12`) — **pulam** sem a variável, de propósito |

diff --git a/docs/DIARIO-DE-ENGENHARIA.md b/docs/DIARIO-DE-ENGENHARIA.md
@@ -14337,9 +14337,15 @@ O revisor trocou a condição de conta vazia por `presencaNaConta !== "com-regis
 
 Os 16 testes de onboarding falharam contra `develop` `4037d5a`. A rodada da revisão executou e restaurou as quatro sabotagens anteriores e a nova. A suíte com o código restaurado passou com 1.154 testes em 76 arquivos. O preenchimento do progresso usa a cor primária de cada tema, sobre trilho secundário, e mantém o valor acessível. No Edge, medimos 25% de preenchimento para “1 de 4 passos feitos”, em azul `#0b6db5` no claro e `#4fb3f5` no escuro. As seis capturas do Início foram atualizadas. A branch também incorporou `d0e6f5f`, que só acrescentou o registro do R25 à documentação.
 
-**Adaptação.** O Início reaproveita a primeira página sem filtro e segue o cursor só quando ela vem cheia, sem sessão fora da bancada. A consulta da presença na conta termina na 16ª página e não publica vazio se o limite for inconclusivo. O Histórico mantém o recorte por período e só faz a conferência da conta quando o recorte completo não trouxe sessões válidas. No Android, a abertura por `/` e o retorno dado pelo guarda preservam o caminho existente. Só o padrão do login e cadastro passa a ser a Noite. O dispositivo guarda apenas a preferência de dispensar, por conta.
+✏ **Integração do filtro do Histórico.** A revisão incorporou `cb12145`, com o filtro por aparelho do UI-55, o agrupamento do UI-56 e o registro do R26. Ao selecionar um aparelho, um recorte vazio mantém “Nenhuma sessão deste aparelho no período selecionado.”. Em “Todos os dispositivos”, o Histórico procura registros da conta quando a consulta do período terminou sem sessões válidas. A conta comprovadamente vazia oferece “Ir para o Início”.
+
+O teste “Histórico vazio oferece retorno ao Início na visão de todos os aparelhos” verifica a troca do filtro e falha se a consulta de conta vazia também for usada para um aparelho selecionado. Os 16 testes de onboarding falharam contra `cb12145`. As cinco sabotagens da rodada anterior e a sabotagem do filtro foram executadas e restauradas. A suíte passou em Windows 11 com 1.171 testes em 77 arquivos. No Edge, com dois aparelhos sintéticos e nenhuma sessão, as quatro capturas do Histórico foram atualizadas a 390 e 1280 px, em claro e escuro.
+
+**Adaptação.** O Início reaproveita a primeira página sem filtro e segue o cursor só quando ela vem cheia, sem sessão fora da bancada. A consulta da presença na conta termina na 16ª página e não publica vazio se o limite for inconclusivo. O Histórico mantém o recorte por período e por aparelho, e usa a consulta da conta no modo de todos os aparelhos. No Android, a abertura por `/` e o retorno dado pelo guarda preservam o caminho existente. Só o padrão do login e cadastro passa a ser a Noite. O dispositivo guarda apenas a preferência de dispensar, por conta.
 
 **O que deu errado no caminho.** O UI-51 foi atribuído à frente do detalhe de tempo registrado. Os três itens desta etapa foram renumerados antes de entrar no backlog. A primeira rodada de testes ainda buscava os textos anteriores e incluía a nova consulta sem `desde` na asserção do recorte do Histórico. Os testes mantiveram as verificações de filtro e de navegação com os textos novos. O teste de linguagem excedeu 5 s com o emulador e o build em paralelo. Passou isolado e na rodada completa com prazo de 15 s por teste, pela CLI. A primeira captura esperou o carregamento integral do documento e excedeu o prazo. A segunda aguardou o conteúdo da tela. No emulador, um diálogo do Android cobriu a primeira captura do aparelho. As três entradas foram repetidas para capturar a WebView diretamente.
+
+Na integração do UI-55, o dublê de `useDispositivos` no teste de Histórico ainda devolvia uma lista. O consumidor já usava o objeto com lista e estado de carregamento do onboarding. O dublê foi ajustado ao mesmo contrato, mantendo as asserções do filtro e do agrupamento.
 
 **Risco em aberto.** A verificação do cadastro e login usou respostas sintéticas. A distribuição ao Android continua dependendo do próximo APK de release. As perguntas opcionais, a meta e a política pertencem à etapa 2 (UI-60, UI-61 e LGPD-16).
 
